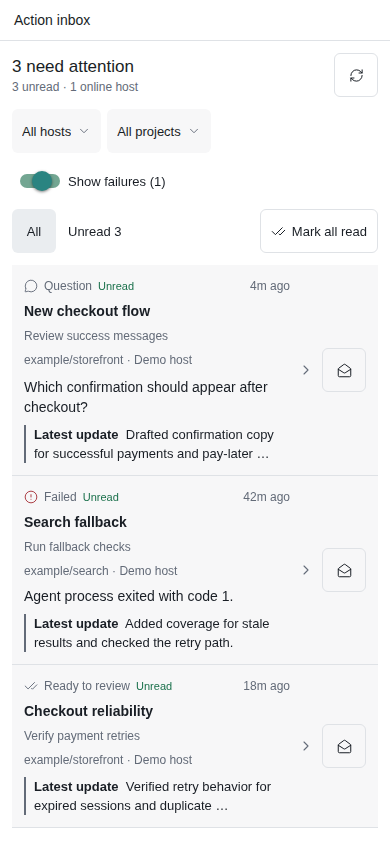
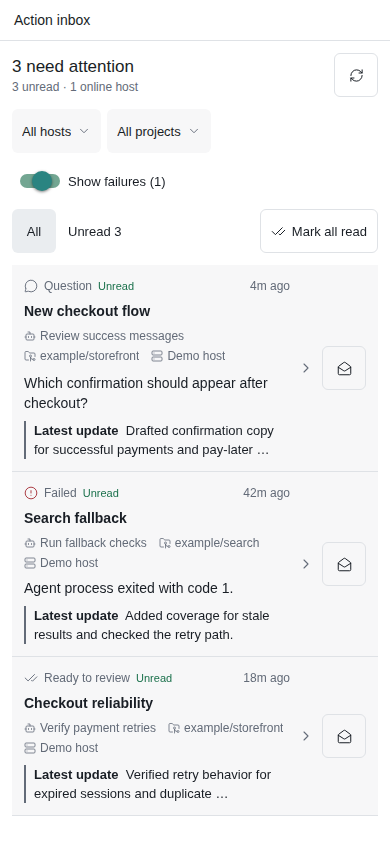
Group Action Inbox row metadata on one line

diff --git a/plugins/action-inbox/client/inbox-row.tsx b/plugins/action-inbox/client/inbox-row.tsx
@@ -66,6 +66,15 @@ export function InboxRow({
   const muted = { color: theme.colors.foregroundMuted, fontSize: 12, lineHeight: 18 };
   const updatedAt = new Date(card.updatedAt);
   const minutes = Math.max(0, Math.floor((Date.now() - updatedAt.getTime()) / 60_000));
+  const metadata = [
+    {
+      labelKey: "metadataAgent",
+      icon: "Bot",
+      value: card.workspaceName && card.workspaceName !== card.agentTitle ? card.agentTitle : null,
+    },
+    { labelKey: "metadataProject", icon: "FolderGit2", value: card.projectName },
+    { labelKey: "metadataHost", icon: "Server", value: card.hostLabel },
+  ] as const;
 
   function age() {
     if (!Number.isFinite(minutes)) return "";
@@ -99,14 +108,25 @@ export function InboxRow({
       <Text style={[foreground, { fontWeight: unread ? "600" : "400" }]}>
         {card.workspaceName ?? card.agentTitle}
       </Text>
-      {card.workspaceName && card.workspaceName !== card.agentTitle ? (
-        <Text numberOfLines={1} style={muted}>
-          {card.agentTitle}
-        </Text>
-      ) : null}
-      <Text numberOfLines={2} style={muted}>
-        {card.projectName} · {card.hostLabel}
-      </Text>
+      <View style={{ flexDirection: "row", flexWrap: "wrap", columnGap: 12, rowGap: 2 }}>
+        {metadata.map(({ labelKey, icon, value }) =>
+          value ? (
+            <View
+              key={labelKey}
+              style={{ flexDirection: "row", alignItems: "center", gap: 4, maxWidth: "100%" }}
+            >
+              <Icon name={icon} size={12} color={theme.colors.foregroundMuted} />
+              <Text
+                accessibilityLabel={t(labelKey, { name: value })}
+                numberOfLines={1}
+                style={[muted, { flexShrink: 1 }]}
+              >
+                {value}
+              </Text>
+            </View>
+          ) : null,
+        )}
+      </View>
       {card.kind === "question" && card.permission ? (
         <View style={{ gap: 6, paddingTop: 2 }}>
           <Text numberOfLines={3} style={foreground}>
